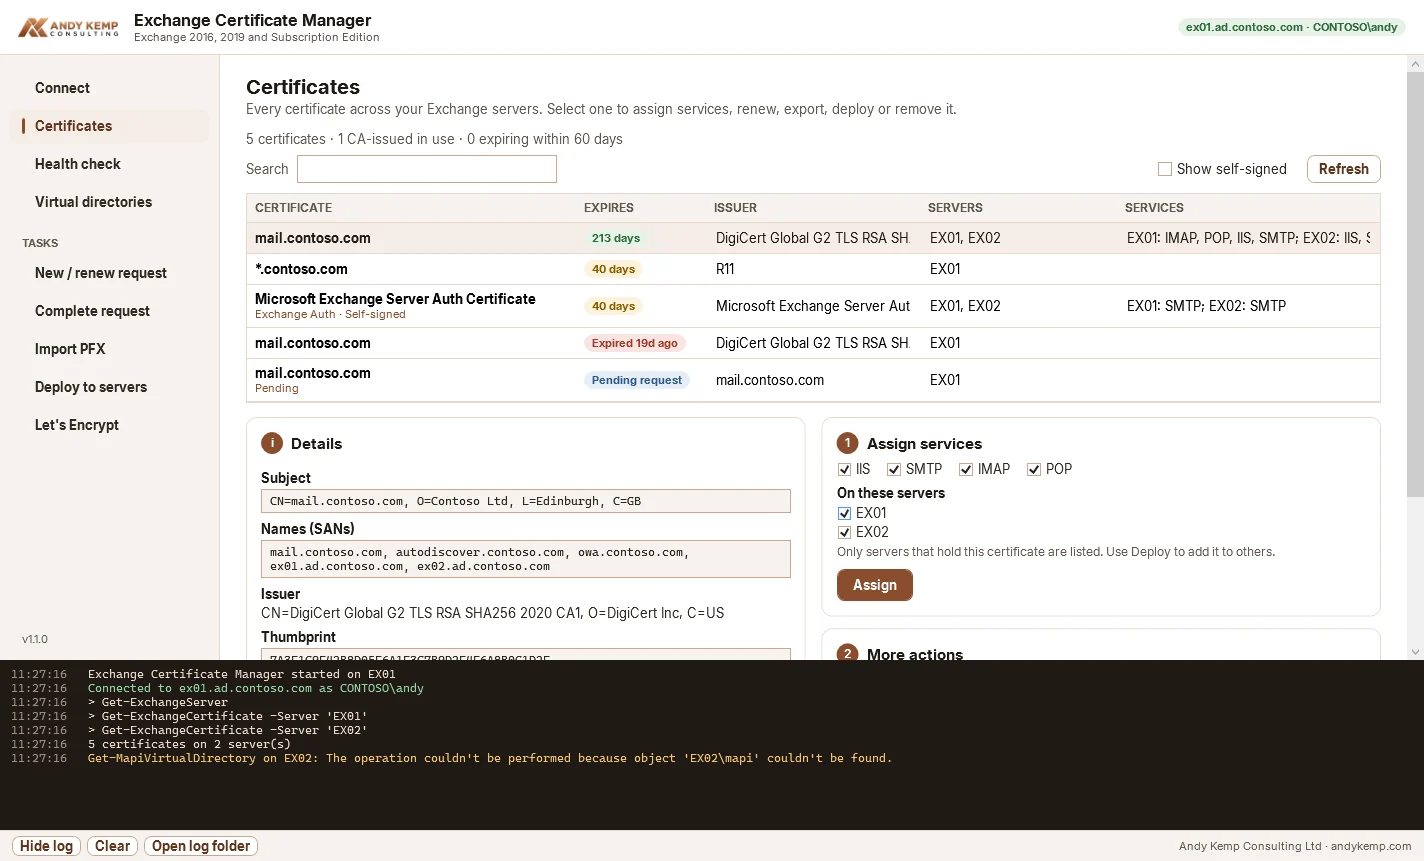
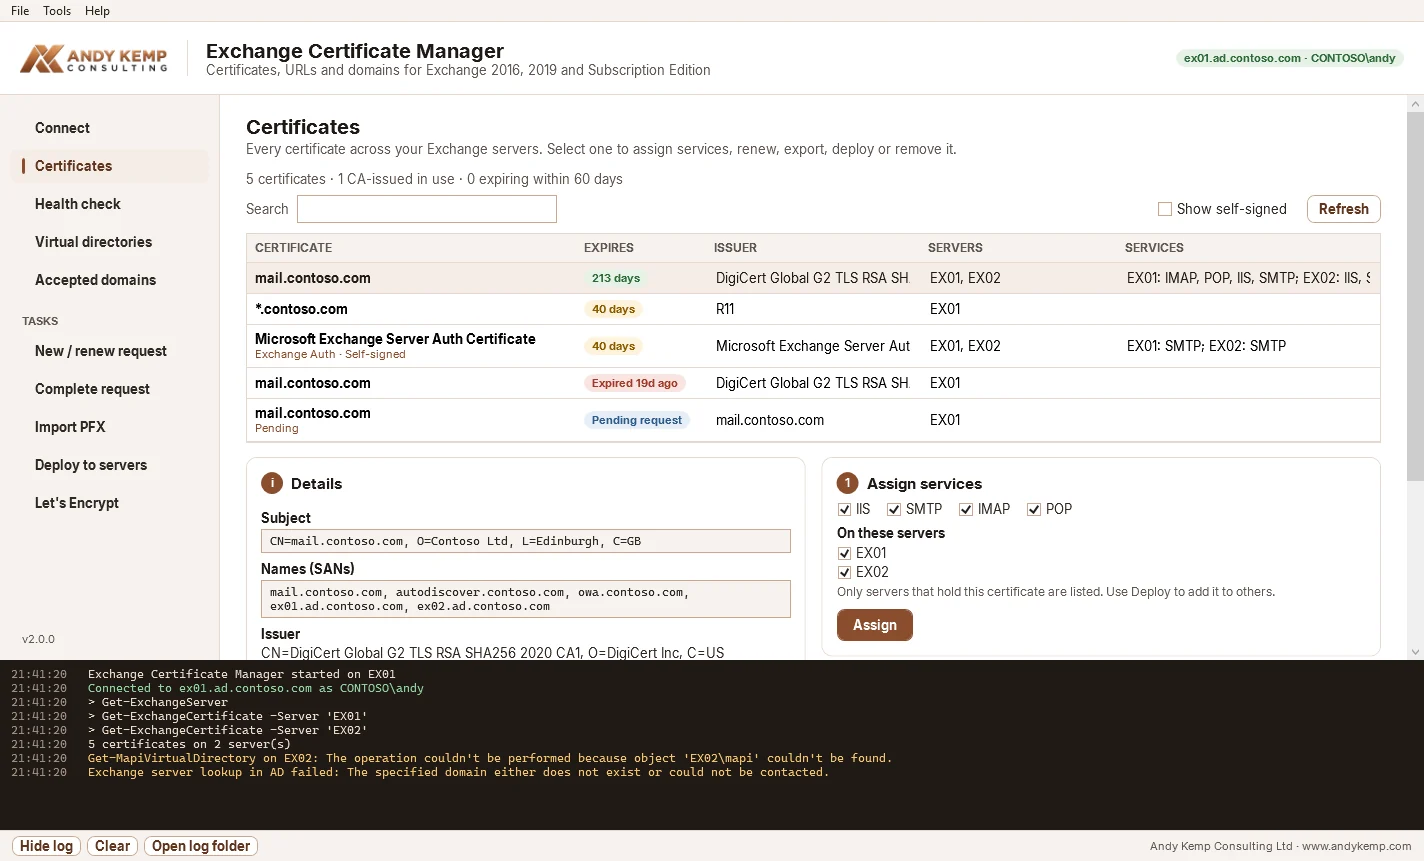
README for 2.0: domains, Cloudflare and gMSA, MSI and updates, new screenshots (#28)
Claude-Session: https://claude.ai/code/session_01KiE5Do7reB3Uta9CMD2Ea9

diff --git a/README.md b/README.md
@@ -1,6 +1,6 @@
 # Exchange Certificate Manager
 
-A Windows app for requesting, renewing, deploying and health-checking Exchange Server certificates, including free Let's Encrypt certificates with automatic renewal. Built by **Andy Kemp Consulting Ltd** with the same look and single-file EXE approach as WinImagePrep.
+Certificates, URLs and domains for Exchange Server, in one Windows app: request, renew, deploy and health-check certificates (including free Let's Encrypt certificates with automatic renewal), set every client URL, and manage accepted domains and email address policy. Built by **Andy Kemp Consulting Ltd** with the same look and single-file EXE approach as WinImagePrep.
 
 Supports Exchange 2016, Exchange 2019 and Exchange Server Subscription Edition (SE), including on Windows Server 2025.
 
@@ -12,7 +12,7 @@ Docs: [docs.andykemp.com/exchange-cert-manager](https://docs.andykemp.com/exchan
 
 | Page | What you get |
 |---|---|
-| **Connect** | Kerberos sign-in as your current Windows account (or another account). Detects when it's running on an Exchange server and pre-fills it. Works from a domain-joined admin machine too. |
+| **Connect** | Finds the Exchange servers in Active Directory (version and AD site, this site first). Kerberos sign-in as your current Windows account (or another account). Works from a domain-joined admin machine too. |
 | **Certificates** | Every certificate across every Exchange server, grouped by thumbprint: names, issuer, expiry, which servers hold it and which services each has. Assign services, renew, export PFX, deploy or remove. |
 | **Health check** | Expiring certificates in use, the **Exchange Auth (OAuth) certificate**, whether the IIS certificate's SANs cover every URL configured on the virtual directories / Outlook Anywhere / Autodiscover, connectors whose `TlsCertificateName` points at a certificate that's gone (the classic hybrid break), servers missing a certificate the others have, and clean-up candidates. One-click fixes: renew the Auth certificate (staged 49 hours, as Microsoft recommends), clear the previous one, and update a connector's `TlsCertificateName`. |
 | **Virtual directories** | Every internal and external URL on every server (OWA, ECP, EWS, ActiveSync, OAB, MAPI, Outlook Anywhere, Autodiscover SCP). Set one namespace with a command preview and a certificate coverage check. The PowerShell vdir is never touched. |
@@ -21,11 +21,13 @@ Docs: [docs.andykemp.com/exchange-cert-manager](https://docs.andykemp.com/exchan
 | **Complete request** | Imports the CA's response on the server with the pending request, assigns services and copies it to the other servers in one step. |
 | **Import PFX** | Install a certificate you already have as a .pfx. Checks the file locally first (names, expiry, private key, password) then imports and assigns it on the servers you pick. |
 | **Deploy to servers** | Exports once, imports on every server that doesn't have it, assigns the same services everywhere. Shows a summary before it does anything. |
-| **Let's Encrypt** | HTTP-01 (writes the challenge to every server's Default Web Site, so it works behind a load balancer) or manual DNS-01 for wildcards. Installs and assigns the certificate, and registers a daily scheduled task that renews within 30 days of expiry. |
+| **Let's Encrypt** | HTTP-01 (writes the challenge to every server's Default Web Site, so it works behind a load balancer) or DNS-01 for wildcards: automatic through Cloudflare (API token stored encrypted, admins only) or manual. Installs and assigns the certificate, and registers a nightly task that renews within 30 days of expiry, running as SYSTEM, a user or a gMSA the app can create for you. |
 
 | Health check | Virtual directories |
 |---|---|
 | ![Health check](docs/screenshots/health.webp) | ![Virtual directories](docs/screenshots/virtual-directories.webp) |
+| **Accepted domains** | **Let's Encrypt** |
+| ![Accepted domains](docs/screenshots/accepted-domains.webp) | ![Let's Encrypt](docs/screenshots/lets-encrypt.webp) |
 
 Everything is logged to the panel at the bottom and to `C:\ProgramData\ExchangeCertManager\Logs`.
 
@@ -41,6 +43,8 @@ No .NET install is needed; the EXE is self-contained.
 ## Download and run
 
 Download [`ExchangeCertManager.exe`](https://downloads.andykemp.com/exchange-cert-manager/latest/ExchangeCertManager.exe) ([SHA-256](https://downloads.andykemp.com/exchange-cert-manager/latest/SHA256SUMS.txt)) and run it. **File > Install on this Server** copies it to Program Files with a Start menu shortcut; the renewal task runs that copy. It asks for elevation because it writes ACME challenge files to IIS and can register the renewal task.
+
+For several machines or Intune, use [`ExchangeCertManager.msi`](https://downloads.andykemp.com/exchange-cert-manager/latest/ExchangeCertManager.msi) (`msiexec /i ExchangeCertManager.msi /qn`; add `UPDATES=0` to leave updates to your deployment tool). Otherwise **Tools > Check for updates** updates the app from downloads.andykemp.com, checked against its SHA-256. See [Installing and deploying](https://docs.andykemp.com/exchange-cert-manager/install/).
 
 ## Build
 
